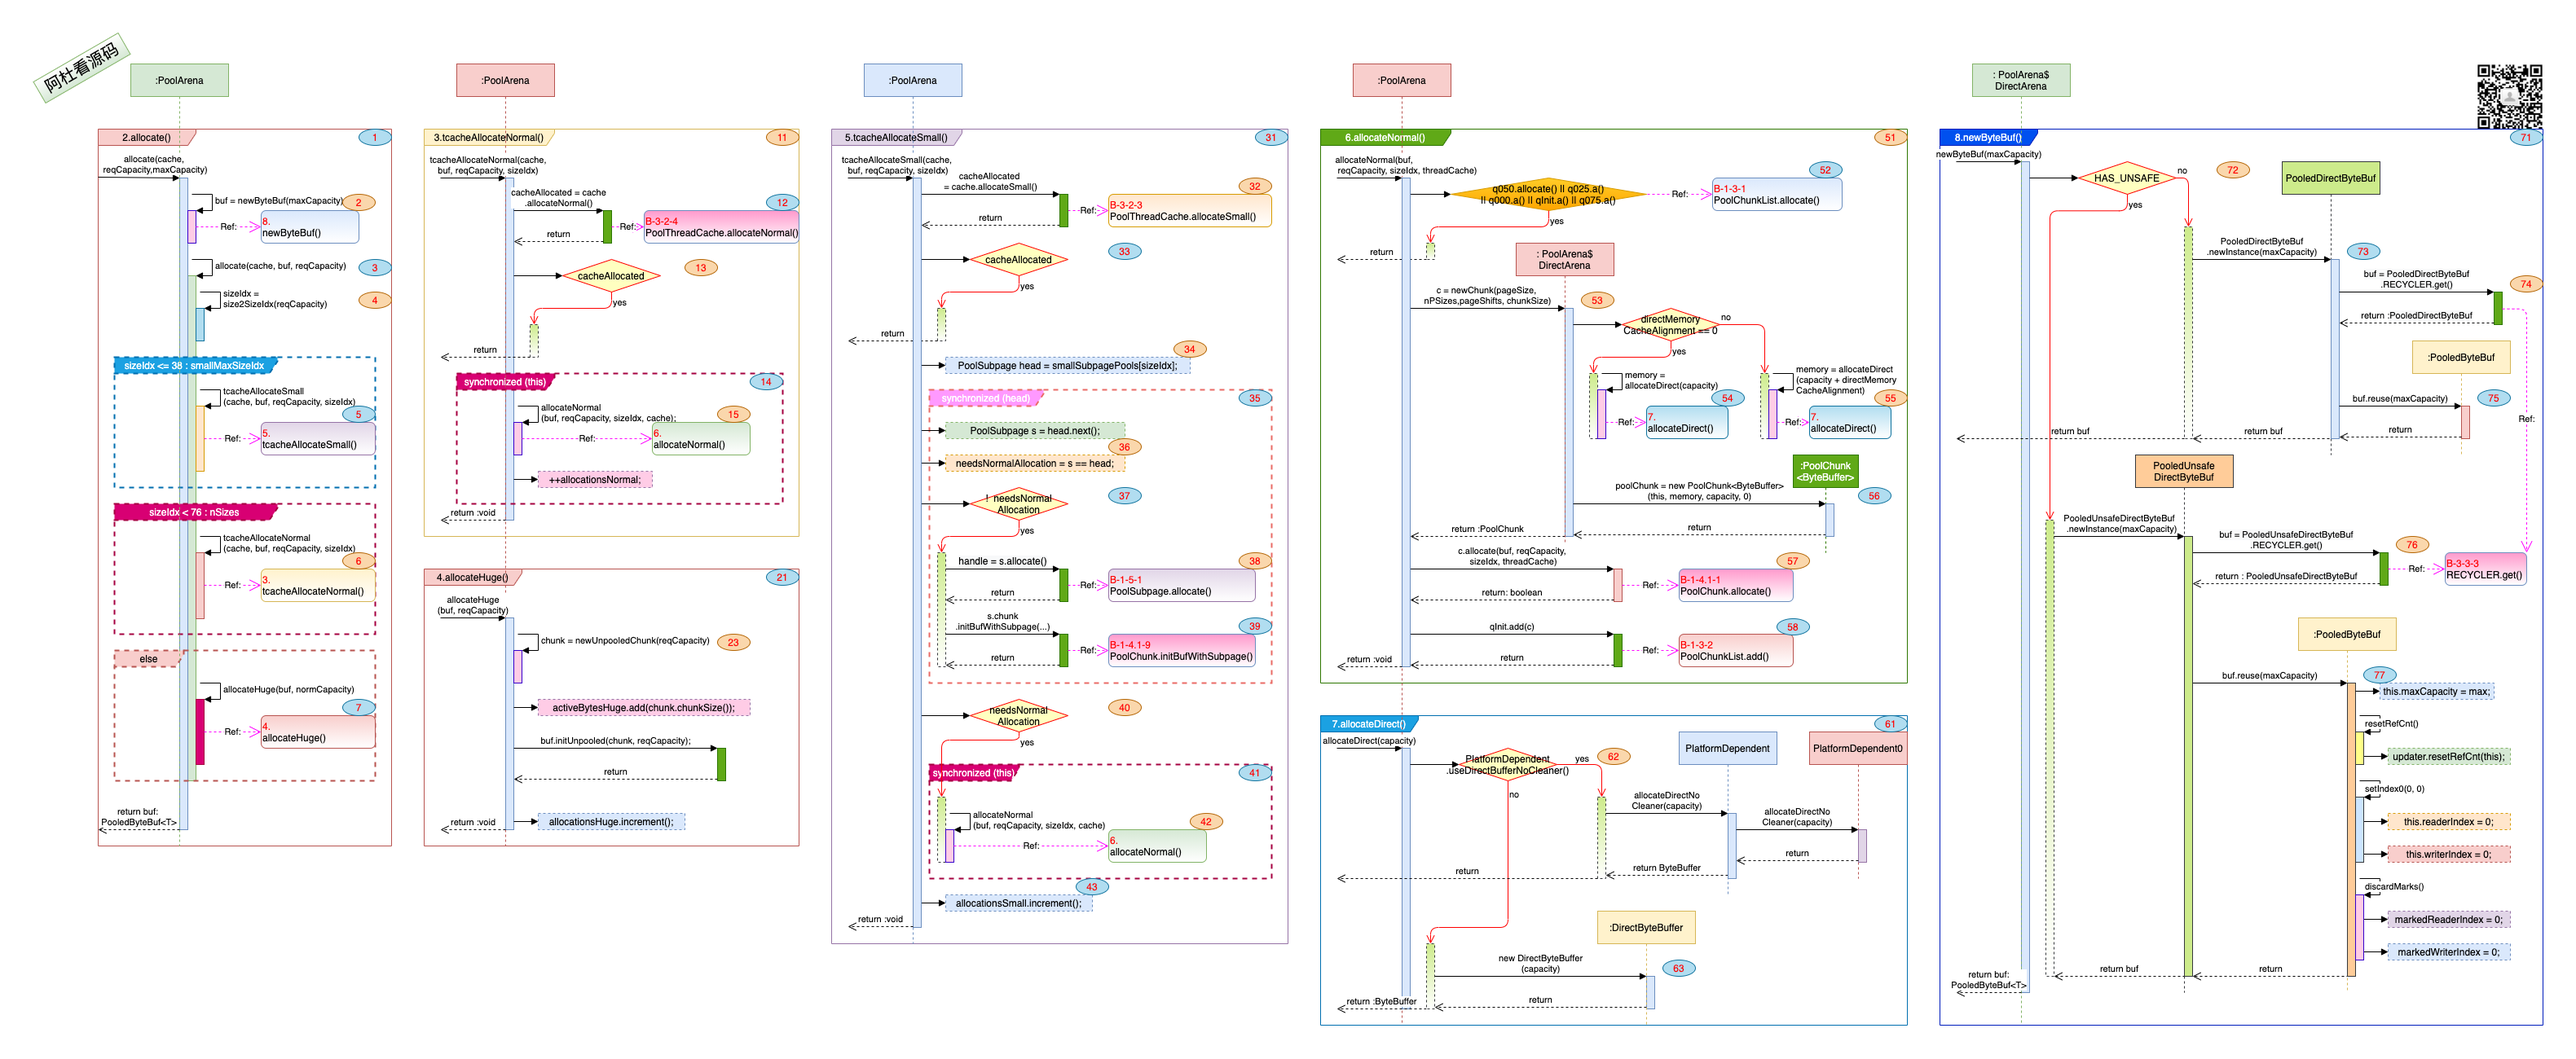
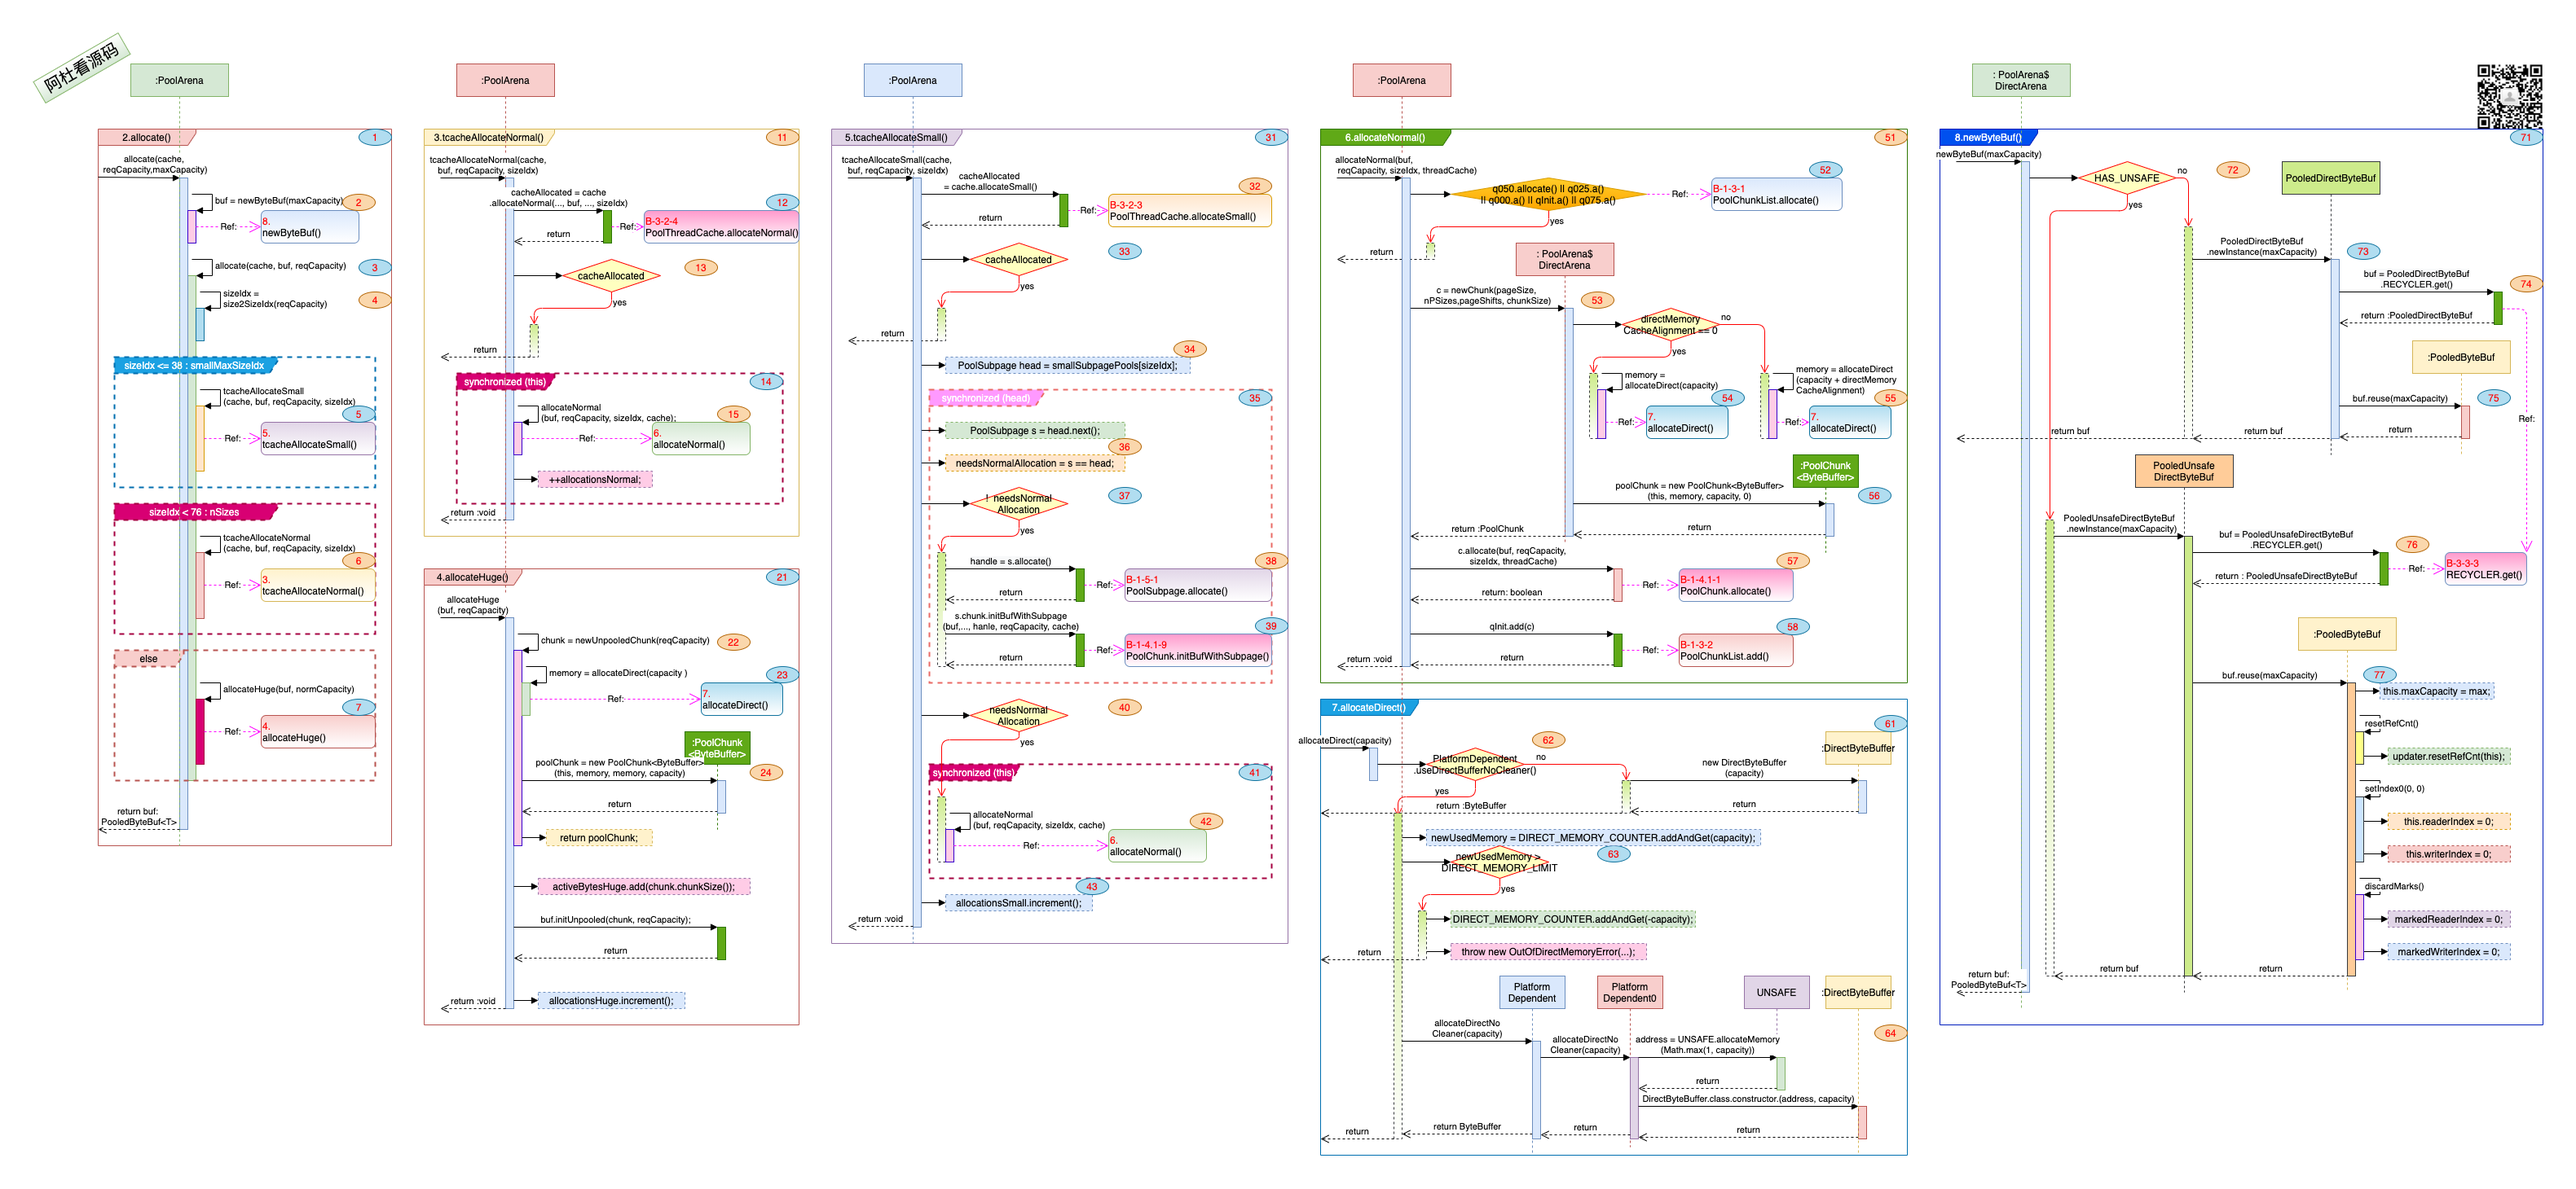
1. PoolArena完成到空间回收.

diff --git a/netty_4.1.66/5.PoolArena.html b/netty_4.1.66/5.PoolArena.html
@@ -770,6 +770,6 @@ g[data-mml-node="xypic"] path {
 </style><title>5.PoolArena</title>
 </head>
 <body class='typora-export'><div class='typora-export-content'>
-<div id='write'  class=''><h2 id='nettypooledbytebuf5poolarena'><span>Netty_PooledByteBuf_5.PoolArena</span></h2><h3 id='一-干什么'><span>一. 干什么?</span></h3><ol start='' ><li><span>Soho卖给了黑石, 一幢楼要出租, 不同需求的客户都来了, 有要大面积的, 有要小工位的, 怎么管?</span></li><li></li></ol><p>&nbsp;</p><h3 id='二-打算怎么干'><span>二. 打算怎么干? </span></h3><ol start='' ><li><p><span>怎么管? 分开管, 分级管.</span></p><p>&nbsp;</p></li></ol><h3 id='三-初始化及数据结构'><span>三. 初始化及数据结构:</span></h3><p><img src="./images/3.PooledByteBufAllocator/2.DataStructure-3.PoolArena.png" referrerpolicy="no-referrer" alt="PoolArena Structure"></p><blockquote><p>&nbsp;</p></blockquote></div></div>
+<div id='write'  class=''><h2 id='nettypooledbytebuf5poolarena'><span>Netty_PooledByteBuf_5.PoolArena</span></h2><h3 id='一-干什么'><span>一. 干什么?</span></h3><ol start='' ><li><span>Soho卖给了黑石, 一幢楼要出租, 不同需求的客户都来了, 有要大面积的, 有要小工位的, 怎么管?</span></li><li></li></ol><p>&nbsp;</p><h3 id='二-打算怎么干'><span>二. 打算怎么干? </span></h3><ol start='' ><li><p><span>怎么管? 分开管, 分级管. </span></p></li><li><p><span>分级是什么, 就像买衣服, 码号都标准化了, 170, 175, 180. S码, M码, L码.  177的买什么码, 往大里靠, 买180码.</span></p><p>&nbsp;</p></li></ol><h3 id='三-数据结构及空间分配与回收'><span>三. 数据结构及空间分配与回收:</span></h3><ol start='' ><li><h4 id='初始化方法与数据结构'><span>初始化方法与数据结构: </span></h4><blockquote><p><img src="./images/3.PooledByteBufAllocator/2.DataStructure-4.PoolArena.png" referrerpolicy="no-referrer" alt="PoolArena Structure"></p><ul><li><span>图中标号: </span><strong><span>1</span></strong><span>. PoolArena继承自SizeClasses, 这样使用SizeClasses中的码表进行标准化.</span></li><li><span>图中标号: </span><strong><span>2</span></strong><span>. 取自SizeClasses中的nSubpages, 共享空间都有那些尺码.</span></li><li><span>图中标号: </span><strong><span>3, 4, 5, 6</span></strong><span>. 共享空间下每种尺码, 都创建了一个链表来管理同等尺码下的共享空间, 默认都是有head头.</span></li><li><span>图中标号: </span><strong><span>7</span></strong><span>. 这一幛楼里的每一层, 按楼层的使用率分级到qInit, q000, q100等6个分级下.</span></li></ul></blockquote></li><li><h4 id='空间分配'><span>空间分配:</span></h4><blockquote><p><img src="./images/3.PooledByteBufAllocator/1.MainFlow-2.1.PoolArena_allocate.png" referrerpolicy="no-referrer" alt="PoolArena allocate"></p><ol><li><p><span>图中标号: </span><strong><span>1</span></strong><span>. allocate(), 空间分配的入口.</span></p><ul><li><span>图中标号: </span><strong><span>2</span></strong><span>.  PooledByteBuf</span><T><span> buf</span></li><li><span>图中标号: </span><strong><span>2</span></strong><span>. </span></li><li><span>图中标号: </span><strong><span>2</span></strong><span>. </span></li><li><span>图中标号: </span><strong><span>2</span></strong><span>. </span></li><li><span>图中标号: </span><strong><span>2</span></strong><span>. </span></li><li><span>图中标号: </span><strong><span>2</span></strong><span>. </span></li><li><span>图中标号: </span><strong><span>2</span></strong><span>. </span></li></ul></li></ol></blockquote></li></ol><h3 id='四-空间分配'><span>四. 空间分配:</span></h3><ol start='' ><li></li></ol><p>&nbsp;</p><blockquote><ol start='' ><li></li></ol></blockquote></div></div>
 </body>
 </html>

diff --git a/netty_4.1.66/5.PoolArena.md b/netty_4.1.66/5.PoolArena.md
@@ -16,20 +16,64 @@
    
 
 
-### 三. 初始化及数据结构:
+### 三. 数据结构及空间分配与回收:
 
-![PoolArena Structure](./images/3.PooledByteBufAllocator/2.DataStructure-4.PoolArena.png)
+1. #### 初始化方法与数据结构: 
 
-1. 初始化方法与数据结构: 
-
+   > ![PoolArena Structure](./images/3.PooledByteBufAllocator/2.DataStructure-4.PoolArena.png)
+   >
    > - 图中标号: **1**. PoolArena继承自SizeClasses, 这样使用SizeClasses中的码表进行标准化.
    > - 图中标号: **2**. 取自SizeClasses中的nSubpages, 共享空间都有那些尺码.
-   > - 图中标号: **3, 4, 5, 6**. 共享空间下每种尺码, 都创建了一个链表来管理同等尺码下的共享空间, 默认都是有head头.
+   > - 图中标号: **3, 4, 5, 6**. 共享空间下每种尺码, 都创建了一个链表来管理同等尺码下的共享空间, 默认都是有head头. 这些共享区域可能分布在不同的楼层里.
    > - 图中标号: **7**. 这一幛楼里的每一层, 按楼层的使用率分级到qInit, q000, q100等6个分级下.
 
-### 四. 分配与回收方法:
+2. #### 空间分配:
 
-1. 
+   > ![PoolArena allocate](./images/3.PooledByteBufAllocator/1.MainFlow-2.1.PoolArena_allocate.png)
+   >
+   > 1. 图中标号: **1**. 2.allocate(), 空间分配的入口.
+   >    - 图中标号: **2**.  PooledByteBuf<T> buf实际上是一个包裹, 里面真正的空间管理由T memory负责, 所以这个包裹可以反复使用(Recycle), 就像酒瓶子一样, 酒喝完了, 用瓶子再装新酒.
+   >    - 图中标号: **3**. Allocate(cache, buf, reqCapacity)是最终的分配方法.
+   >    - 图中标号: **4**. sizeIdx对reqCapacity空间请求按SizeClasses中的码表进行标准化(房间还分个小户型, 中户型, 大户型). 参看SizeClasses. 
+   >    - 图中标号: **5**. 如果要的是小面积, 共享区域中进行分配.  
+   >    - 图中标号: **6**. 如果是大面积, 独立区域进行分配. 
+   >    - 图中标号: **7**. 超大面积, 联排别墅, 董事长直接接走了. 
+   > 2. 图中标号: **11**. 3.tcacheAllocateNormal(), 分配独立空间, 连续的几个房间.
+   >    - 图中标号: **12, 13**. 先从cache里看看, 之前是不是有人租了相同面积(sizeIdx一样), 现在退租了, 如果有直接再租出去.
+   >    - 图中标号: **15**. 要分配一个新的空间, 那整栋楼都停下来, 只服务于这一个客户- (synchronized(this:arena)).
+   >    - 图中标号: **16**. allocateNormal分配独立空间. 
+   > 3. 图中标号: **21**. 4.allocateHuge(), 联排别墅的空间分配.
+   >    - 图中标号: **22, 23, 24**. 直接分配空间, 不缓存. 
+   > 4. 图中标号: **31**. 5.tcacheAllocateSmall(), 共享区域下分配空间.
+   >    - 图中标号: **32, 33**. 先从cache里看相同面积(sizeIdx)的有没有退租的, 如果有直接回收复用.  
+   >    - 图中标号: **34**. 从smallSubpagePools这个数组里取sizeIdx对应的下标head, 这个尺码的共享区域都在这个链接下.
+   >    - 图中标号: **35**.  对head加锁.
+   >    - 图中标号: **36, 37**. 如果head == head.next, 说明这个共享区域下, 还没有一个立马能分配的共享区域, 因为head类似一个占位, 初始化时创建, 创建时head.next=head. 
+   >    - 图中标号: **38, 39**. 如果已经有可以分配的共享区域(!needsNormalAllocation), 那么就从共享区域里分配一个位置, 并对buf进行初始化(设置那对应那一段内存的读写). 
+   >    - 图中标号: **40, 41, 42**. 如果需要重新分配一个独立空间做共享区域, 那就进行分配操作, 记得要对arena加锁. 
+   > 5. 图中标号: **51**. 6.allocateNormal() 可以是整租, 也可能是先整租一户再从里租一个床位.
+   >    - 图中标号: **52**. 优先从现有的楼层里对处出租, 先从租住率比较高的q050的楼层尝试, 如果从现有楼层里能租到房间, 就算处理完了. 
+   >    - 图中标号: **53**. 到这一步, 说明已有的楼层要么都租完了, 要么太挤了满足不了客户的需求, 要新盖一层楼了, 好在新盖大多数情况下也挺快. 
+   >    - 图中标号: **54, 55, 56**. 由建筑工人兄弟开一块空间(这里是堆外内存), 再对这空间装修装修(封装成PoolChunk), 好了交付使用吧.
+   >    - 图中标号: **57**. 在新的楼层里整租或者合租吧.
+   >    - 图中标号: **58**. 新建的楼层跟其它的楼层一样, 按租住率管理起来, 这里qInit.add(chunk)不见得是放在qInit里, 有可能刚刚的用户就租了很大的一户房间, 租住率一下就很高(25%), 那qInit会通过move对该楼层进行传递.
+   > 6. 图中标号: **61**.7.allocateDirect(), 分配个空间盖房子.
+   >    - 图中标号: **62**. 这里没看明白NoCleaner的意思.
+   >    - 图中标号: **63**. 如果分配的堆外内存大于配置的DIRECT_MEMORY_LIMIT, 会抛出OutOfDirectMemoryError异常.
+   >    - 图中标号: **64**. 由UNSAFE来分配堆外内存, 并由DirectByteBuffer的Constructor来创建对象.
+   > 7. 图中标号: **71**. 8.newByteBuf(), 酒瓶子的创建.
+   >    - 图中标号: **72**. 查看是不是用UNSAFE来管理内存. 
+   >    - 图中标号: **73, 74, 75**. 由PooledDirectByteBuf.RECYCLER 来获取回收的或者新创建的PooledDirectByteBuf.
+   >    - 图中标号: **76, 77**. 由PooledUnsafeDirectByteBuf.RECYCLER 来获取回收的或者新创建的PooledUnsafeDirectByteBuf. 注意这里的reuse处理.
+
+3. 空间回收:
+
+   > 
+
+### 四. 写在最后:
+
+1. head链下是不是只有一个还能分配的PoolSubpage, 如果一直调用allocate()方法, 那head后最多有一个可以分配的PoolSubpage, 因为如果PoolSubpage没有空间进行分配了, 就会从head链摘除. 但是在free()释放方法时, 如果释放的是一个已经没有空间的PoolSubpage, 那释放空间后, PoolSupage会挂到head链后.
+2. 合租是先整租几个房间, 再把客厅卧室打成隔间进行单独出租.
 
 
 
